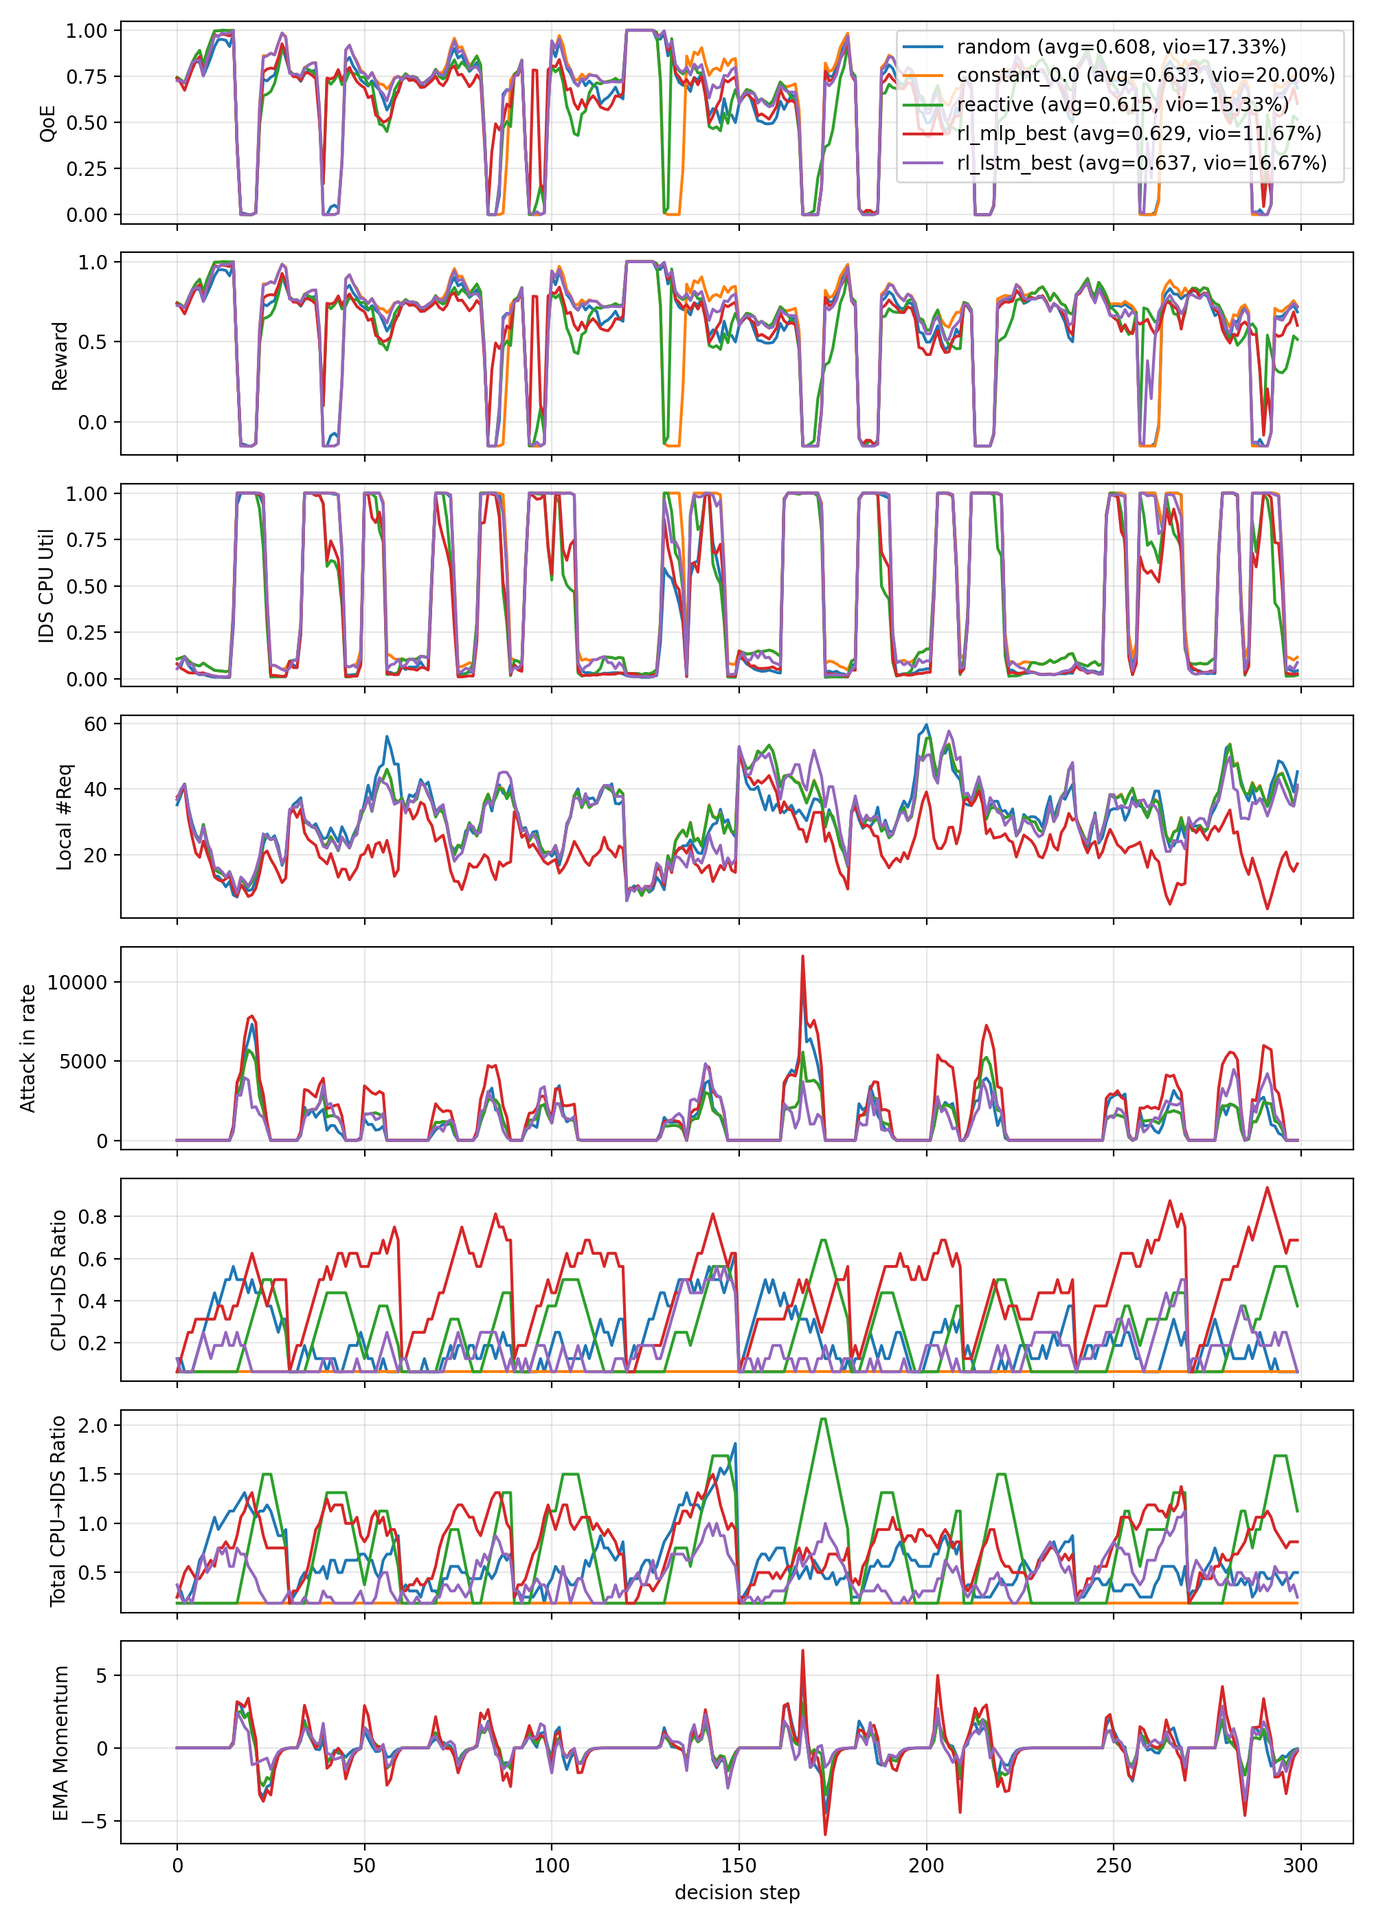
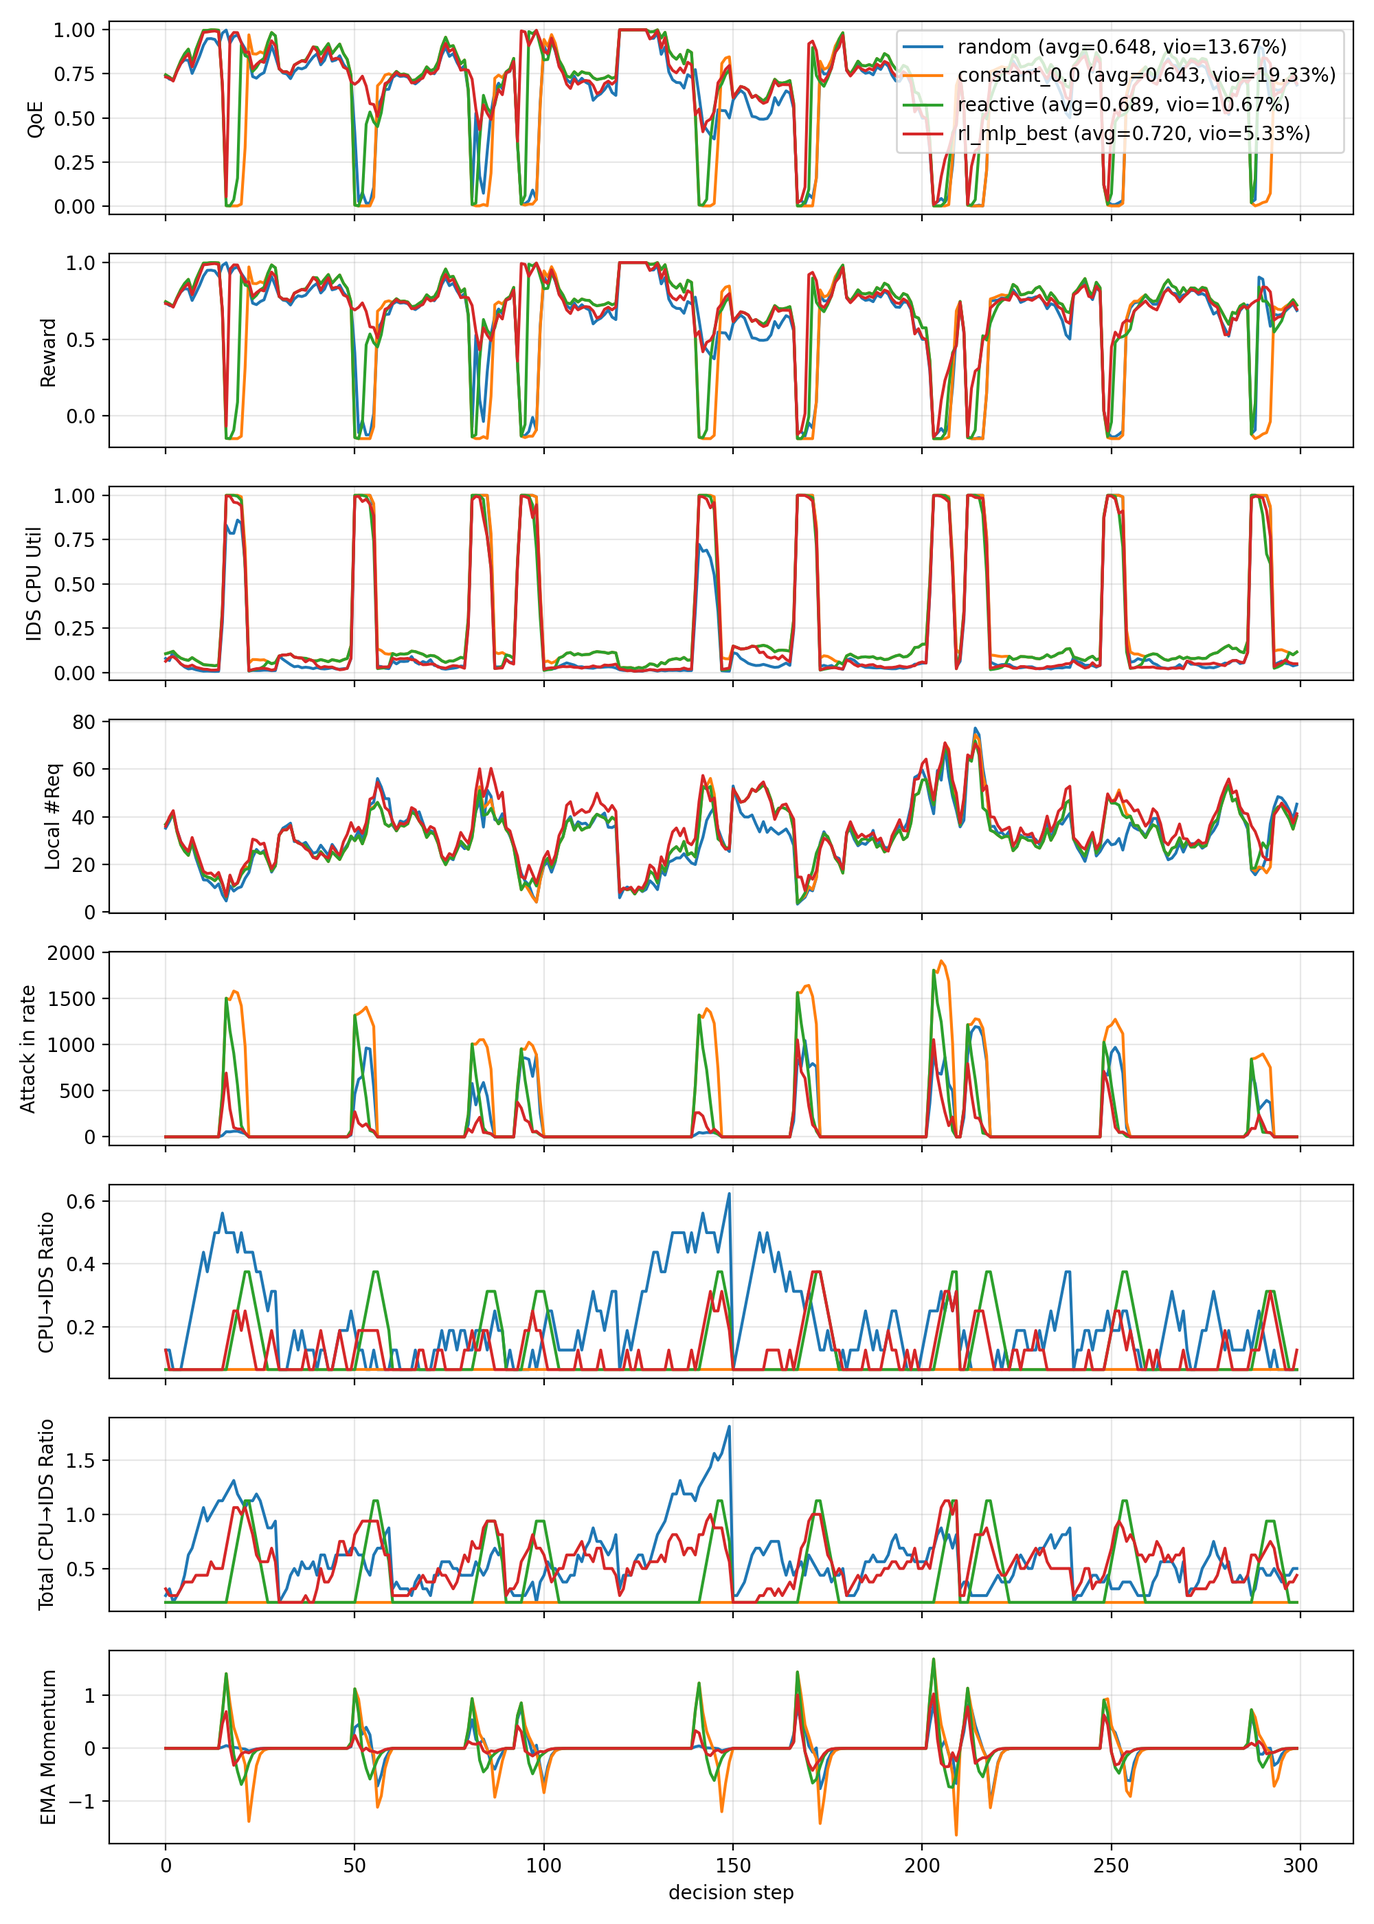
Multi Edge Convergence

diff --git a/simulation/edgearea.py b/simulation/edgearea.py
@@ -133,15 +133,20 @@ class EdgeArea:
         total_cycles_per_s = 0.0   # flows * cycle_per_flow
         ema = 0.0
         mom = 0.0
-
+        bw_per_flow = 0.0
+        cycle_per_flow = 0.0
+        
+        bw_per_flow += self.attackers[0].bw_per_flow
+        cycle_per_flow += self.attackers[0].cycle_per_flow
         for atk in self.cur_attacker:
-            # r = atk.load_at(t)
+         
             if not getattr(atk, "episode_active", True):
                 continue
             r = atk.load_at(t)            
             
             if r is None:
                 continue
+            
 
             flows = float(r["flows_per_sec"])
             total_flows += flows
@@ -163,6 +168,8 @@ class EdgeArea:
             "cycles_per_s": total_cycles_per_s,
             "ema": ema,
             "mom": mom,
+            "bw_per_flow": bw_per_flow,
+            "cycle_per_flow": cycle_per_flow
         }
 
     def aggregate_load_after_ids(
@@ -600,31 +607,58 @@ class EdgeArea:
         self,
         t: int,
         admitted_user_req_in: int,
+        admitted_atk_req_in: int,
         attack_dict: Dict,
         ids_out: Dict,
     ) -> Dict:
         """
-        Executes VA pipeline for a given admitted workload count.
+        Execute VA pipeline under mixed admitted workload.
 
-        Updated to work with new IDS outputs:
-        - Prefer count-style keys: atk_in_cnt / atk_pass_cnt
-        - Fallback to legacy rate-style keys: attack_in_rate / attack_pass_rate
+        Inputs
+        - admitted_user_req_in: benign requests arriving at this VA executor
+        - admitted_atk_req_in: false-negative / admitted attack requests arriving at this VA executor
+
+        Modeling
+        - Both benign and attack requests consume uplink and compute resources
+        - QoE is evaluated only on benign requests
+        - Attack traffic reduces available resources and may indirectly reduce benign QoE
         """
-        total_req_in = float(admitted_user_req_in)
-        local_num_request = int(admitted_user_req_in)
 
-        # --- UPDATED: compute attack pass fraction robustly ---
-        atk_in = float(ids_out.get("atk_in_cnt", ids_out.get("attack_in_rate", 0.0)))
-        atk_pass = float(ids_out.get("atk_pass_cnt", ids_out.get("attack_pass_rate", 0.0)))
-        atk_pass_frac = (atk_pass / atk_in) if atk_in > 0 else 0.0
+        benign_req_in = int(admitted_user_req_in)
+        attack_req_in = int(admitted_atk_req_in)
+        total_req_in = float(benign_req_in + attack_req_in)
+
+        # For logging / final QoE weighting, keep this as benign workload only
+        local_num_request = benign_req_in
+
+        # -------------------------------------------------
+        # Infer per-attack-request resource footprint
+        # -------------------------------------------------
+        # attack_dict should describe attack resource profile for the admitted attack type mix.
+        # We use it only for per-request scaling, not for total attack volume anymore.
+        atk_in_ref = float(ids_out.get("atk_in_cnt", ids_out.get("attack_in_rate", 0.0)))
+        atk_pass_ref = float(ids_out.get("atk_pass_cnt", ids_out.get("attack_pass_rate", 0.0)))
+
+        # robust pass fraction, only as fallback reference
+        atk_pass_frac = (atk_pass_ref / atk_in_ref) if atk_in_ref > 0 else 0.0
         atk_pass_frac = float(np.clip(atk_pass_frac, 0.0, 1.0))
 
-        # attack pressure that survives IDS and reaches VA/uplink
-        attack_uplink_in = float(attack_dict.get("bw_in", 0.0)) * atk_pass_frac
-        attack_cycles_per_ms = (float(attack_dict.get("cycles_per_s", 0.0)) * atk_pass_frac) / 1000.0
+        # Prefer deriving per-attack-request resource cost from total pre-IDS attack profile.
+        # If atk_in_ref is unavailable, fall back safely to zero.
+        bw_in_total = float(attack_dict.get("bw_in", 0.0))
+        cycles_per_s_total = float(attack_dict.get("cycles_per_s", 0.0))
 
-        # --- Compute Attack EMA Momentum ---
-        atk_signal = float(atk_in)  # choose pressure that matters to VA/uplink
+        atk_bw_per_req = attack_dict.get("bw_per_flow", 0.0)
+        atk_cycles_per_req = attack_dict.get("cycle_per_flow", 0.0)
+
+        # actual admitted attack resource load at THIS VA executor
+        attack_uplink_in = float(attack_req_in) * float(atk_bw_per_req)
+        attack_cycles_per_ms = float(attack_req_in) * float(atk_cycles_per_req)
+
+        # -------------------------------------------------
+        # Attack EMA / momentum based on admitted attack load
+        # -------------------------------------------------
+        atk_signal = float(attack_req_in)
 
         if not getattr(self, "_atk_ema_inited", False):
             self._atk_ema_inited = True
@@ -634,10 +668,8 @@ class EdgeArea:
             prev_ema = float(self._atk_ema)
             a = float(self._atk_alpha)
 
-            # EMA update
             self._atk_ema = a * atk_signal + (1.0 - a) * prev_ema
 
-            # momentum = delta EMA, then smooth it (optional but recommended)
             mom_raw = float(self._atk_ema) - prev_ema
             ma = float(self._atk_mom_alpha)
             self._atk_mom_ema = ma * mom_raw + (1.0 - ma) * float(self._atk_mom_ema)
@@ -645,8 +677,11 @@ class EdgeArea:
         attack_ema = float(self._atk_ema)
         attack_mom = float(self._atk_mom_ema)
 
+        # -------------------------------------------------
+        # Resource availability after admitted attacks
+        # -------------------------------------------------
         uplink_total_mb = self.budget.uplink / (1000.0 / self.slot_ms)
-        uplink_attack_used = attack_uplink_in
+        uplink_attack_used = float(attack_uplink_in)
         uplink_available = max(0.0, uplink_total_mb - uplink_attack_used)
 
         total_cycles_per_ms = self.cpu_cycle_per_ms * self.budget.cpu
@@ -654,24 +689,33 @@ class EdgeArea:
         avail_cycles_aft_atk_per_ms = max(0.0, avail_cycles_per_ms - attack_cycles_per_ms)
 
         if avail_cycles_aft_atk_per_ms <= 1e-12 or uplink_available <= 1e-12:
+            benign_dropped_uplink = benign_req_in
+            benign_dropped_compute = benign_req_in
+
             return {
                 "ids_out": ids_out,
                 "local_num_request": local_num_request,
                 "ema": attack_ema,
                 "ema_mom": attack_mom,
-                "dropped_uplink": int(total_req_in),
+                "dropped_uplink": int(benign_dropped_uplink),
                 "od_plan": {},
                 "served_req": 0,
-                "dropped_compute": int(total_req_in),
+                "dropped_compute": int(benign_dropped_compute),
                 "va_cpu_utilization": (total_cycles_per_ms - avail_cycles_aft_atk_per_ms)
                 / max(total_cycles_per_ms, 1e-9),
                 "uplink_util": 1.0,
                 "mean_latency_ms": float("inf"),
                 "qoe": 0.0,
+                "admitted_user_req_in": int(benign_req_in),
+                "admitted_atk_req_in": int(attack_req_in),
+                "total_req_in": float(total_req_in),
             }
 
-        # treat admitted_user_req_in as "passed pre uplink"
-        passed_req_pre_uplink = int(admitted_user_req_in)
+        # -------------------------------------------------
+        # Uplink scheduling for benign requests only
+        # Attacks already consumed part of uplink budget above
+        # -------------------------------------------------
+        passed_req_pre_uplink = benign_req_in
 
         upload_plan, served_req_uplink, dropped_uplink, uplink_util, per_req_by_h = self.select_resolution(
             passed_req_pre_uplink=int(passed_req_pre_uplink),
@@ -681,6 +725,10 @@ class EdgeArea:
             upload_hs=(224, 320, 412),
         )
 
+        # -------------------------------------------------
+        # Detector allocation for benign requests only
+        # Attacks already consumed part of compute budget above
+        # -------------------------------------------------
         gamma = float(self.constraints.get("Gamma", 0.0))
 
         dets = []
@@ -709,10 +757,13 @@ class EdgeArea:
         served_compute = int(sum(od_plan.values()))
         assert served_compute + int(dropped_compute) == int(served_req_uplink)
 
-        if total_req_in <= 0:
+        # -------------------------------------------------
+        # Final QoE: normalize by benign demand only
+        # -------------------------------------------------
+        if benign_req_in <= 0:
             qoe = 1.0
         else:
-            qoe = float(qoe) * (served_compute / total_req_in)
+            qoe = float(qoe) * (served_compute / float(benign_req_in))
 
         return {
             "ids_out": ids_out,
@@ -727,4 +778,7 @@ class EdgeArea:
             "uplink_util": float(uplink_util),
             "mean_latency_ms": float(mean_latency_ms),
             "qoe": float(qoe),
+            "admitted_user_req_in": int(benign_req_in),
+            "admitted_atk_req_in": int(attack_req_in),
+            "total_req_in": float(total_req_in),
         }

diff --git a/simulation/train_cma_ppo.py b/simulation/train_cma_ppo.py
@@ -259,46 +259,59 @@ class EdgeIDSParallelEnv(PZooParallelEnv):
     #     return r
     
     def _build_reward_per_agent(self) -> np.ndarray:
-        if len(self.env.history) < self.n_edges:
+        if not getattr(self.env, "history", None) or len(self.env.history) < self.decision_interval * self.n_edges:
             return np.zeros(self.n_edges, dtype=np.float32)
 
-        # 1. Get local QoE for each edge (maintains area_id order)
-        last_block = self.env.history[-self.n_edges:]
-        q_local = np.asarray([float(m.qoe_mean) for m in last_block], dtype=np.float32)
-        
-        # 2. Calculate local penalty: how far is THIS specific agent below the threshold?
-        # Use np.maximum for element-wise comparison
-        viol = np.maximum(0.0, self.threshold - q_local)
-        penalty = (self.alpha * (viol ** 2)).astype(np.float32)
+        # Grab the whole decision interval block
+        block = self.env.history[-self.decision_interval * self.n_edges :]
+        local_rewards = np.zeros(self.n_edges, dtype=np.float32)
 
-        local_rewards = q_local - penalty
-        # Return the average reward to all agents (Global Reward)
-        global_rew = np.mean(local_rewards)
+        for i, edge in enumerate(self.env.edge_areas):
+            h = [m for m in block if m.area_id == edge.area_id]
+            if not h:
+                continue
+                
+            # 1. Get raw QoE for every micro-step in the interval
+            q_arr = np.asarray([float(m.qoe_mean) for m in h], dtype=np.float32)
+            if q_arr.size == 0:
+                continue
+            
+            # 2. Get edge-specific SLO parameters (falling back to class defaults)
+            slo_thr = float(getattr(edge, "slo_threshold", self.threshold))
+            slo_beta = float(getattr(edge, "slo_beta", self.alpha))
+            
+            # 3. Calculate violation rate over the interval
+            viol_rate = float((q_arr < slo_thr).mean())
+            
+            # 4. Apply the exponential SLO penalty to the mean QoE to get LOCAL reward
+            v_edge = float(np.exp(-slo_beta * viol_rate))
+            local_rewards[i] = float(q_arr.mean()) * v_edge
+
+        # CTDE: Return the average reward to all agents (Global Reward)
+        global_rew = float(np.mean(local_rewards))
         return np.full(self.n_edges, global_rew, dtype=np.float32)
-        
+
     def _qoe_vec(self) -> np.ndarray:
-        # qoe = np.asarray(getattr(self.env, "final_qoe", 0.0), dtype=np.float32)
-        # if qoe.ndim == 0:
-        #     qoe = np.full((self.n_edges,), float(qoe), dtype=np.float32)
-        # return qoe * 30.0
-        
-        if not getattr(self.env, "history", None) or len(self.env.history) == 0:
+        # Wait until we have enough history for a full decision interval block
+        if not getattr(self.env, "history", None) or len(self.env.history) < self.decision_interval * self.n_edges:
             return np.zeros(self.n_edges, dtype=np.float32)
 
         q_vec = np.zeros(self.n_edges, dtype=np.float32)
+        
+        # Isolate the records strictly from the current decision interval
+        block = self.env.history[-self.decision_interval * self.n_edges :]
 
         for i, edge in enumerate(self.env.edge_areas):
-            # all history entries for this edge over the whole episode
-            h = [m for m in self.env.history if m.area_id == edge.area_id]
+            # Filter the recent block for this specific edge
+            h = [m for m in block if m.area_id == edge.area_id]
             if not h:
-                q_vec[i] = 0.0
                 continue
 
             q = np.asarray([float(m.qoe_mean) for m in h], dtype=np.float32)
             if q.size == 0:
-                q_vec[i] = 0.0
                 continue
 
+            # Calculate penalties based ONLY on this interval's ticks
             slo_thr = float(getattr(edge, "slo_threshold", self.threshold))
             slo_beta = float(getattr(edge, "slo_beta", self.alpha))
 
@@ -308,7 +321,6 @@ class EdgeIDSParallelEnv(PZooParallelEnv):
             q_vec[i] = float(q.mean()) * V_edge
 
         return q_vec
-
 
 # =========================================================
 # Transforms

diff --git a/simulation/environment.py b/simulation/environment.py
@@ -143,6 +143,7 @@ class Environment:
         # reset edges
         for i, edge in enumerate(self.edge_areas):
             edge.reset(seed=seed + i * 99)
+            # edge.ids_cpu = 4.0
 
         # ---- enforce: only ONE attacker active in this episode ----
         # gather all attacker instances across all edges
@@ -298,7 +299,10 @@ class Environment:
             admitted_user_exec[e_exec] = int(ids_out_exec[e_exec].get("user_pass_cnt", exec_user_in[e_exec]))
             admitted_atk_exec[e_exec]  = int(ids_out_exec[e_exec].get("atk_pass_cnt", 0))
 
-        W_va_src = {eid: float(admitted_user_exec[eid]) for eid in area_ids}
+        W_va_src = {
+            eid: float(admitted_user_exec[eid] + admitted_atk_exec[eid])
+            for eid in area_ids
+        }
         c_va_dst = {eid: float(edges[eid].va_cpu) for eid in area_ids}
         tau_loc  = self._compute_tau_loc(W_va_src, c_va_dst)
 
@@ -318,6 +322,21 @@ class Environment:
             tau_loc=tau_loc,
         )
         va_in_dst = plan_va.assigned_dst
+        va_user_in_dst = {e: 0 for e in area_ids}
+        va_atk_in_dst  = {e: 0 for e in area_ids}
+
+        for e_src in area_ids:
+            u = float(admitted_user_exec[e_src])
+            a = float(admitted_atk_exec[e_src])
+            tot = max(u + a, 1.0)
+
+            u_share = u / tot
+            a_share = a / tot
+
+            for e_dst, n_sent in plan_va.flow.get(e_src, {}).items():
+                n_sent = float(n_sent)
+                va_user_in_dst[e_dst] += int(round(n_sent * u_share))
+                va_atk_in_dst[e_dst]  += int(round(n_sent * a_share))        
 
         # execute VA at each destination edge
         local_cache = {}
@@ -326,7 +345,8 @@ class Environment:
             edge = edges[e_exec]
             cache = edge.process_va(
                 t=self.t,
-                admitted_user_req_in=int(va_in_dst.get(e_exec, 0)),
+                admitted_user_req_in=int(va_user_in_dst.get(e_exec, 0)),
+                admitted_atk_req_in=int(va_atk_in_dst.get(e_exec, 0)),
                 attack_dict=obs[e_exec]["attack_dict"],
                 ids_out=ids_out_exec[e_exec],
             )
@@ -352,7 +372,9 @@ class Environment:
                     qoe_mean=float(cache["qoe"]),
                     qoe_weighted=qoe_weighted * len(self.edge_areas),
                     ids_coverage=float(ids_out.get("coverage")),
-                    attack_in_rate=float(ids_out.get("atk_in_cnt")),
+                    # attack_in_rate=float(ids_out.get("atk_in_cnt")),
+                    attack_in_rate=va_atk_in_dst[eid],
+                    # attack_in_rate=va_atk_in_dst[eid] + ids_out.get("atk_drop_cnt", 0),
                     user_drop_rate=float(ids_out.get("user_drop_cnt")),
                     od_plan=cache["od_plan"],
                     local_num_req=n,

diff --git a/simulation/policy.py b/simulation/policy.py
@@ -863,7 +863,7 @@ def main():
     ap.add_argument("--scale_step", type=float, default=0.5)
     ap.add_argument("--ids_cpu_min", type=float, default=0.5)
     ap.add_argument("--threshold", type=float, default=0.5)
-    ap.add_argument("--slo_threshold", type=float, default=0.4)
+    ap.add_argument("--slo_threshold", type=float, default=0.35)
     ap.add_argument("--alpha", type=float, default=0.6)
     ap.add_argument("--rl_device", type=str, default="cuda")
     ap.add_argument("--rl_greedy", action="store_true")
@@ -900,8 +900,9 @@ def main():
     edge_names = [str(e.area_id) for e in tmp_env.edge_areas]
 
     rl_candidates = [
-        ("mlp_best", "mlp", "checkpoints/atksc2_a01_ima_ppo_frew/ckpt_iter_000100.pt"),
-        ("lstm_best", "lstm", "checkpoints/atksc2_a01_ima_lstm_frew/ckpt_iter_000100.pt"),
+        ("mlp_best", "mlp", "checkpoints/oneatk_cma_ppo/ckpt_iter_000100.pt"),
+        # ("mlp_best_ids4", "mlp", "checkpoints/oneatk_cma_ppo_ids4/ckpt_iter_000100.pt"),
+        # ("lstm_best", "lstm", "checkpoints/atksc2_a01_ima_lstm_frew/ckpt_iter_000100.pt"),
     ]
 
     if args.rl_specs.strip():
@@ -922,7 +923,7 @@ def main():
                         # "constant_2.0", 
                         # "constant_3.0",
                         "reactive"]
-    # baseline_methods = []
+    # baseline_methods = ["reactive"]
     rl_method_keys = [f"rl_{name}" for (name, _mode, _ckpt) in rl_candidates]
     all_methods = baseline_methods + rl_method_keys
 

diff --git a/simulation/offload.py b/simulation/offload.py
@@ -75,7 +75,8 @@ def balance_with_caps_and_prop_filter(
     W = {e: float(W_src[e]) for e in area_ids}
 
     # headroom if this edge were to receive tasks
-    headroom = {e: max(0.0, float(N_max[e]) - W[e]) for e in area_ids}
+    # headroom = {e: max(0.0, float(N_max[e]) - W[e]) for e in area_ids}
+    headroom = {e: 1e6 for e in area_ids} #! No cap for receiving task
 
     # 4) supply and demand relative to balanced target, demand capped by headroom
     supply = {e: max(0.0, W[e] - N_star[e]) for e in area_ids}
